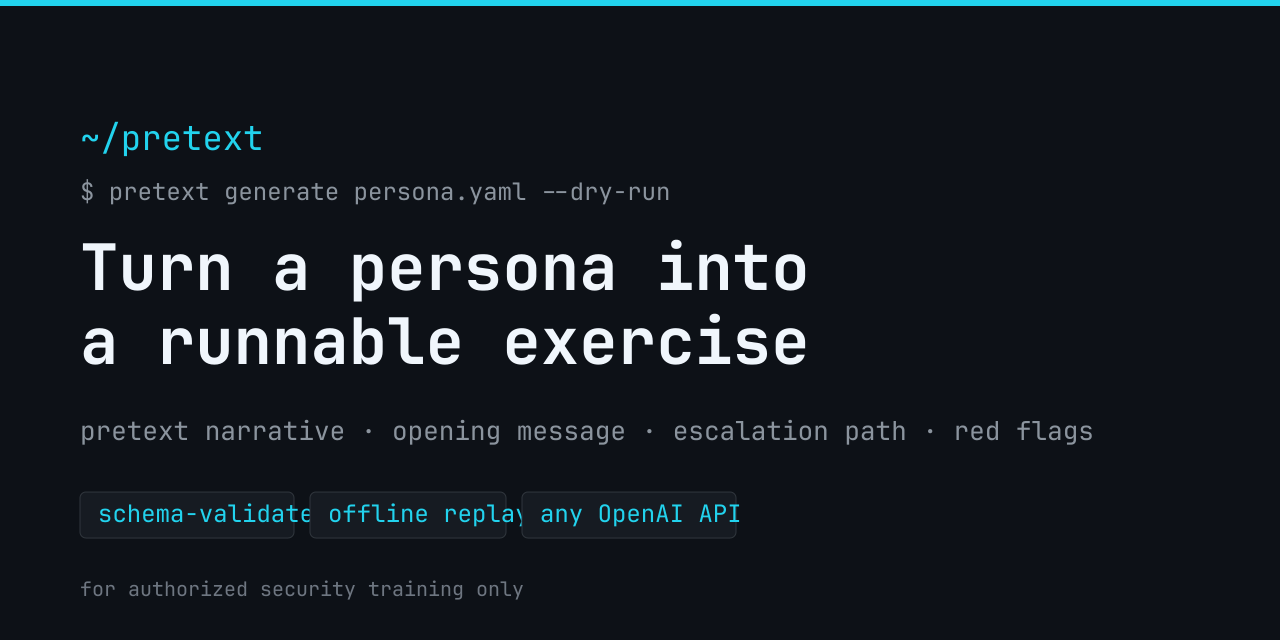
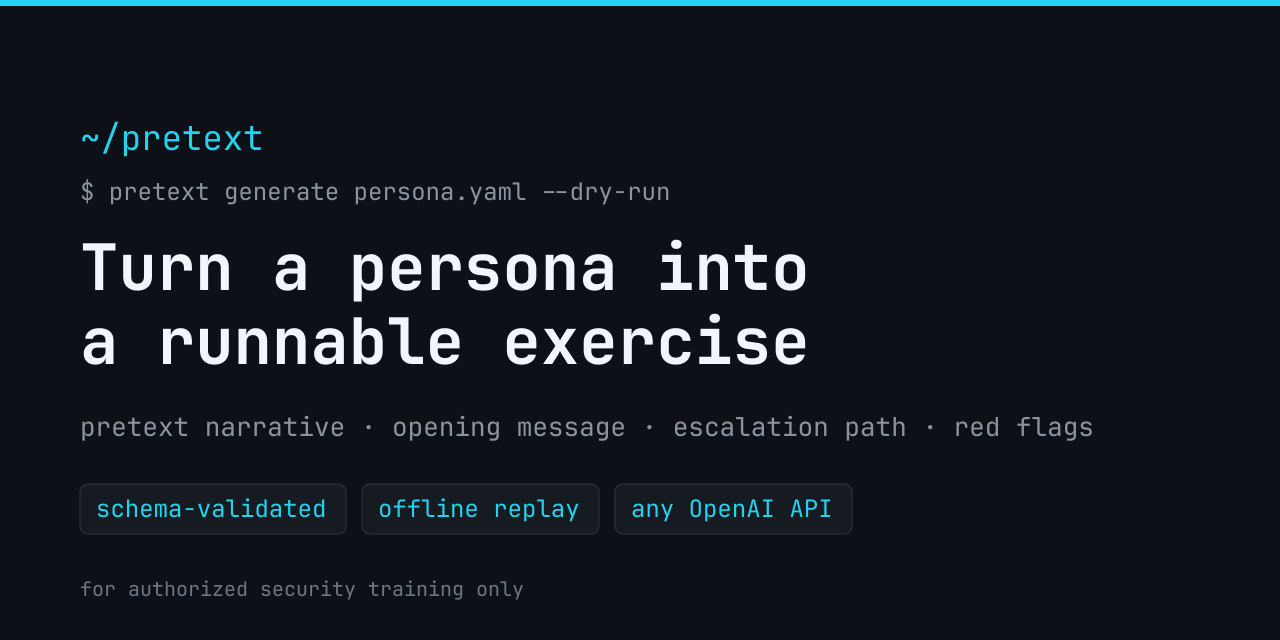
docs: size social preview chips from their labels
The chip rects were guessed and every label overran its box. Widths now derive
from the text length, gaps are uniform, and the SVG source is checked in.

Changed region(s): [[0.0625, 0.6562, 0.7188, 0.6875], [0.0625, 0.7812, 0.6562, 0.8125], [0.75, 0.6562, 0.875, 0.6875]]

diff --git a/AGENTS.md b/AGENTS.md
@@ -127,8 +127,11 @@ and never abort the run on the first failure.
 of `render_simulation` with `sections=("pretext", "opening", "escalation")` over the
 Dana fixture. Convert with `rsvg-convert -z 1.2`, then `magick -trim +repage -strip`.
 Regenerate after any render change or the README advertises stale output.
-`docs/social.png` is a hand-written SVG render; GitHub exposes no REST endpoint for
-the social preview (404 on every version), so it is uploaded in Settings → General.
+`docs/social.svg` is the source for the social preview; chip widths are computed from
+the label length (monospace advance ~0.61em) rather than hand-guessed, and it renders
+with `rsvg-convert docs/social.svg -o docs/social.png`. GitHub exposes no REST
+endpoint for the social preview (404 on every version), so it is uploaded in
+Settings → General.
 
 ## Repo hygiene
 
